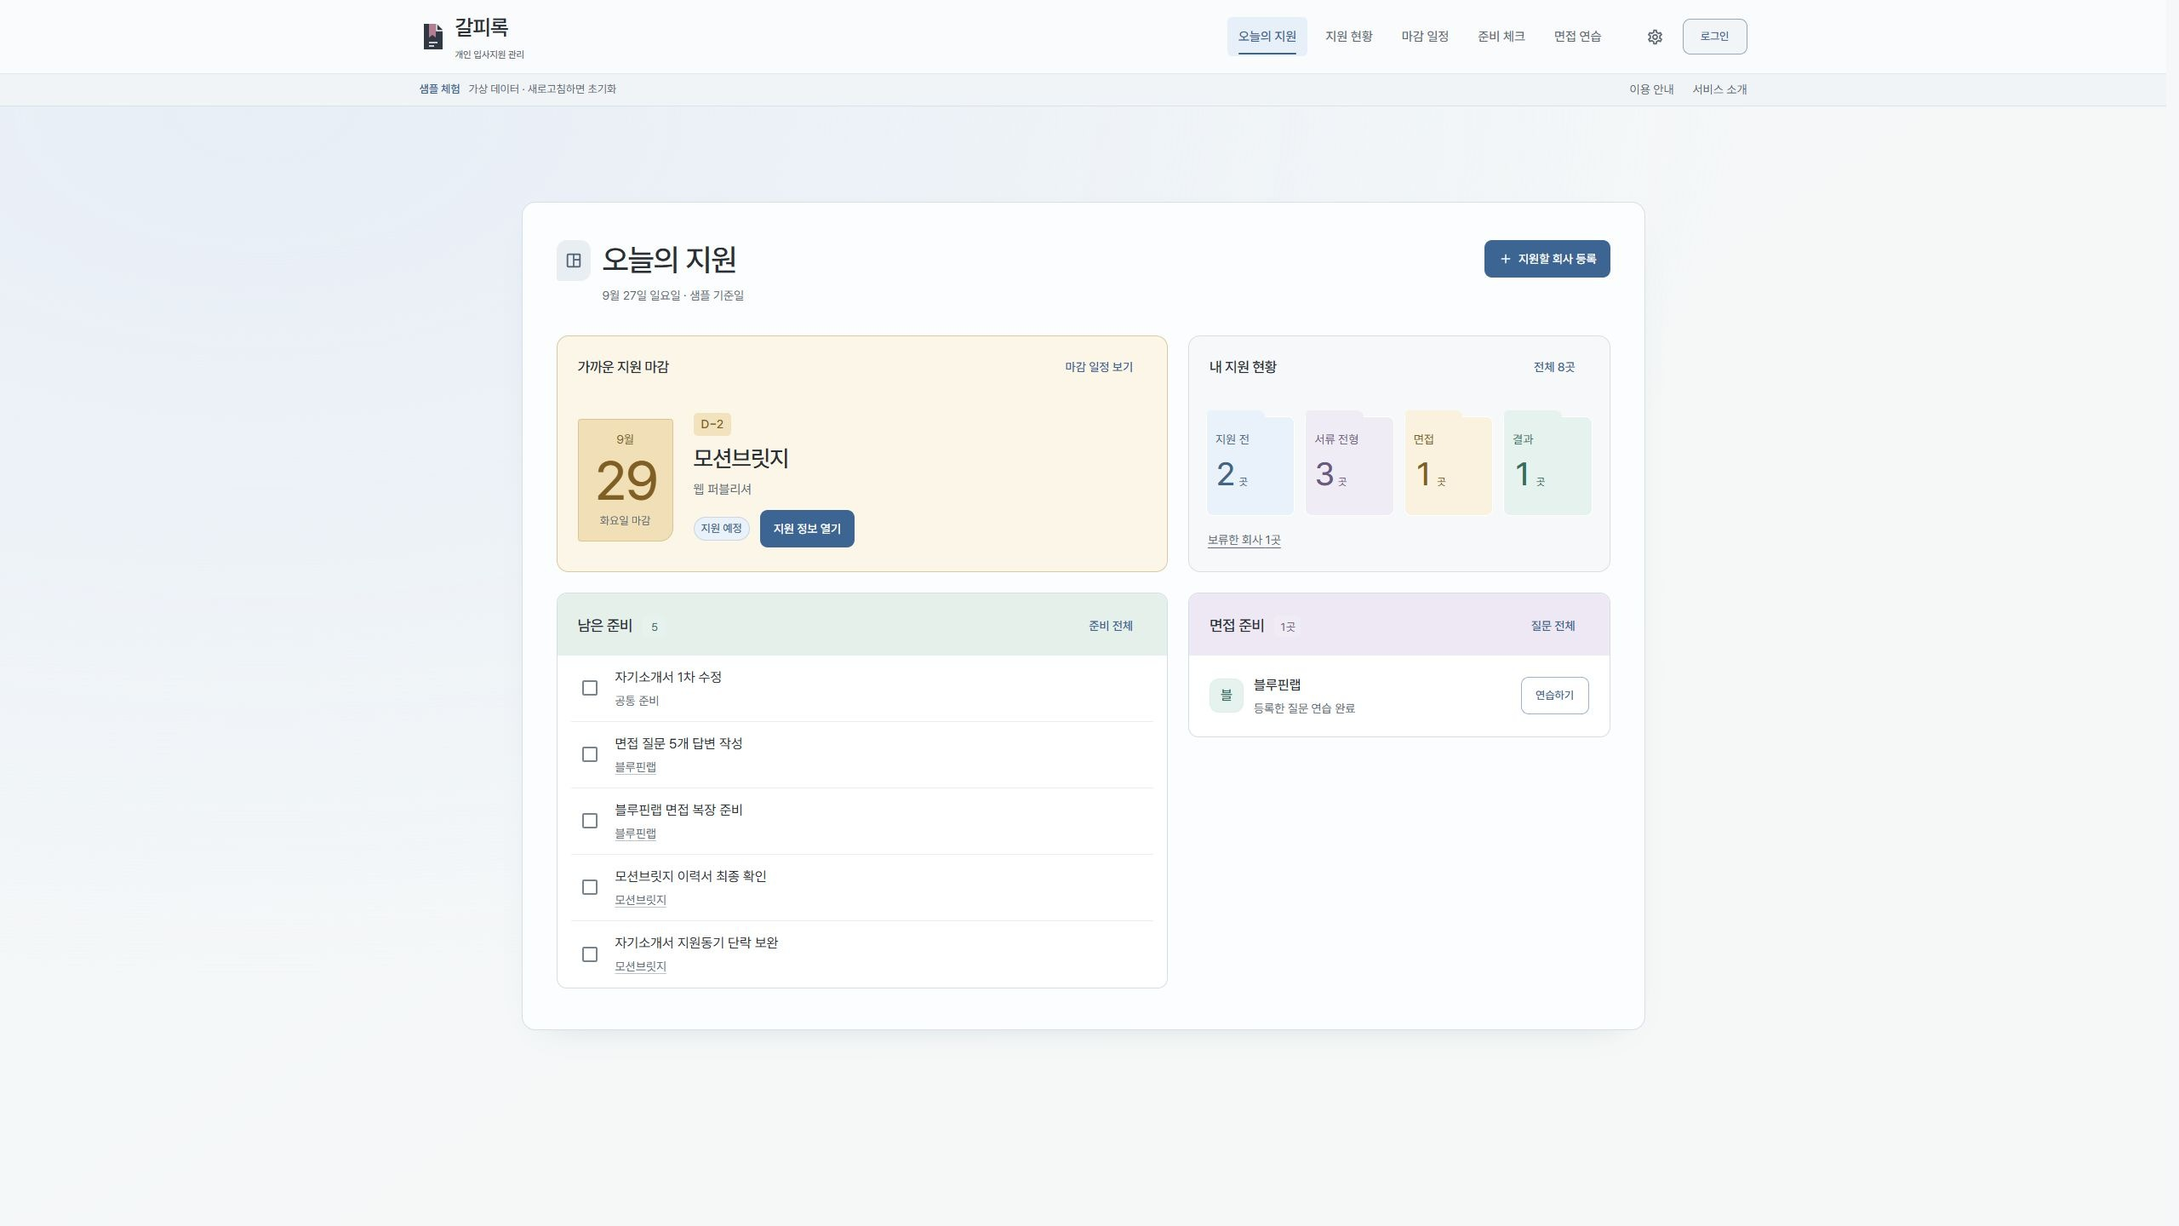
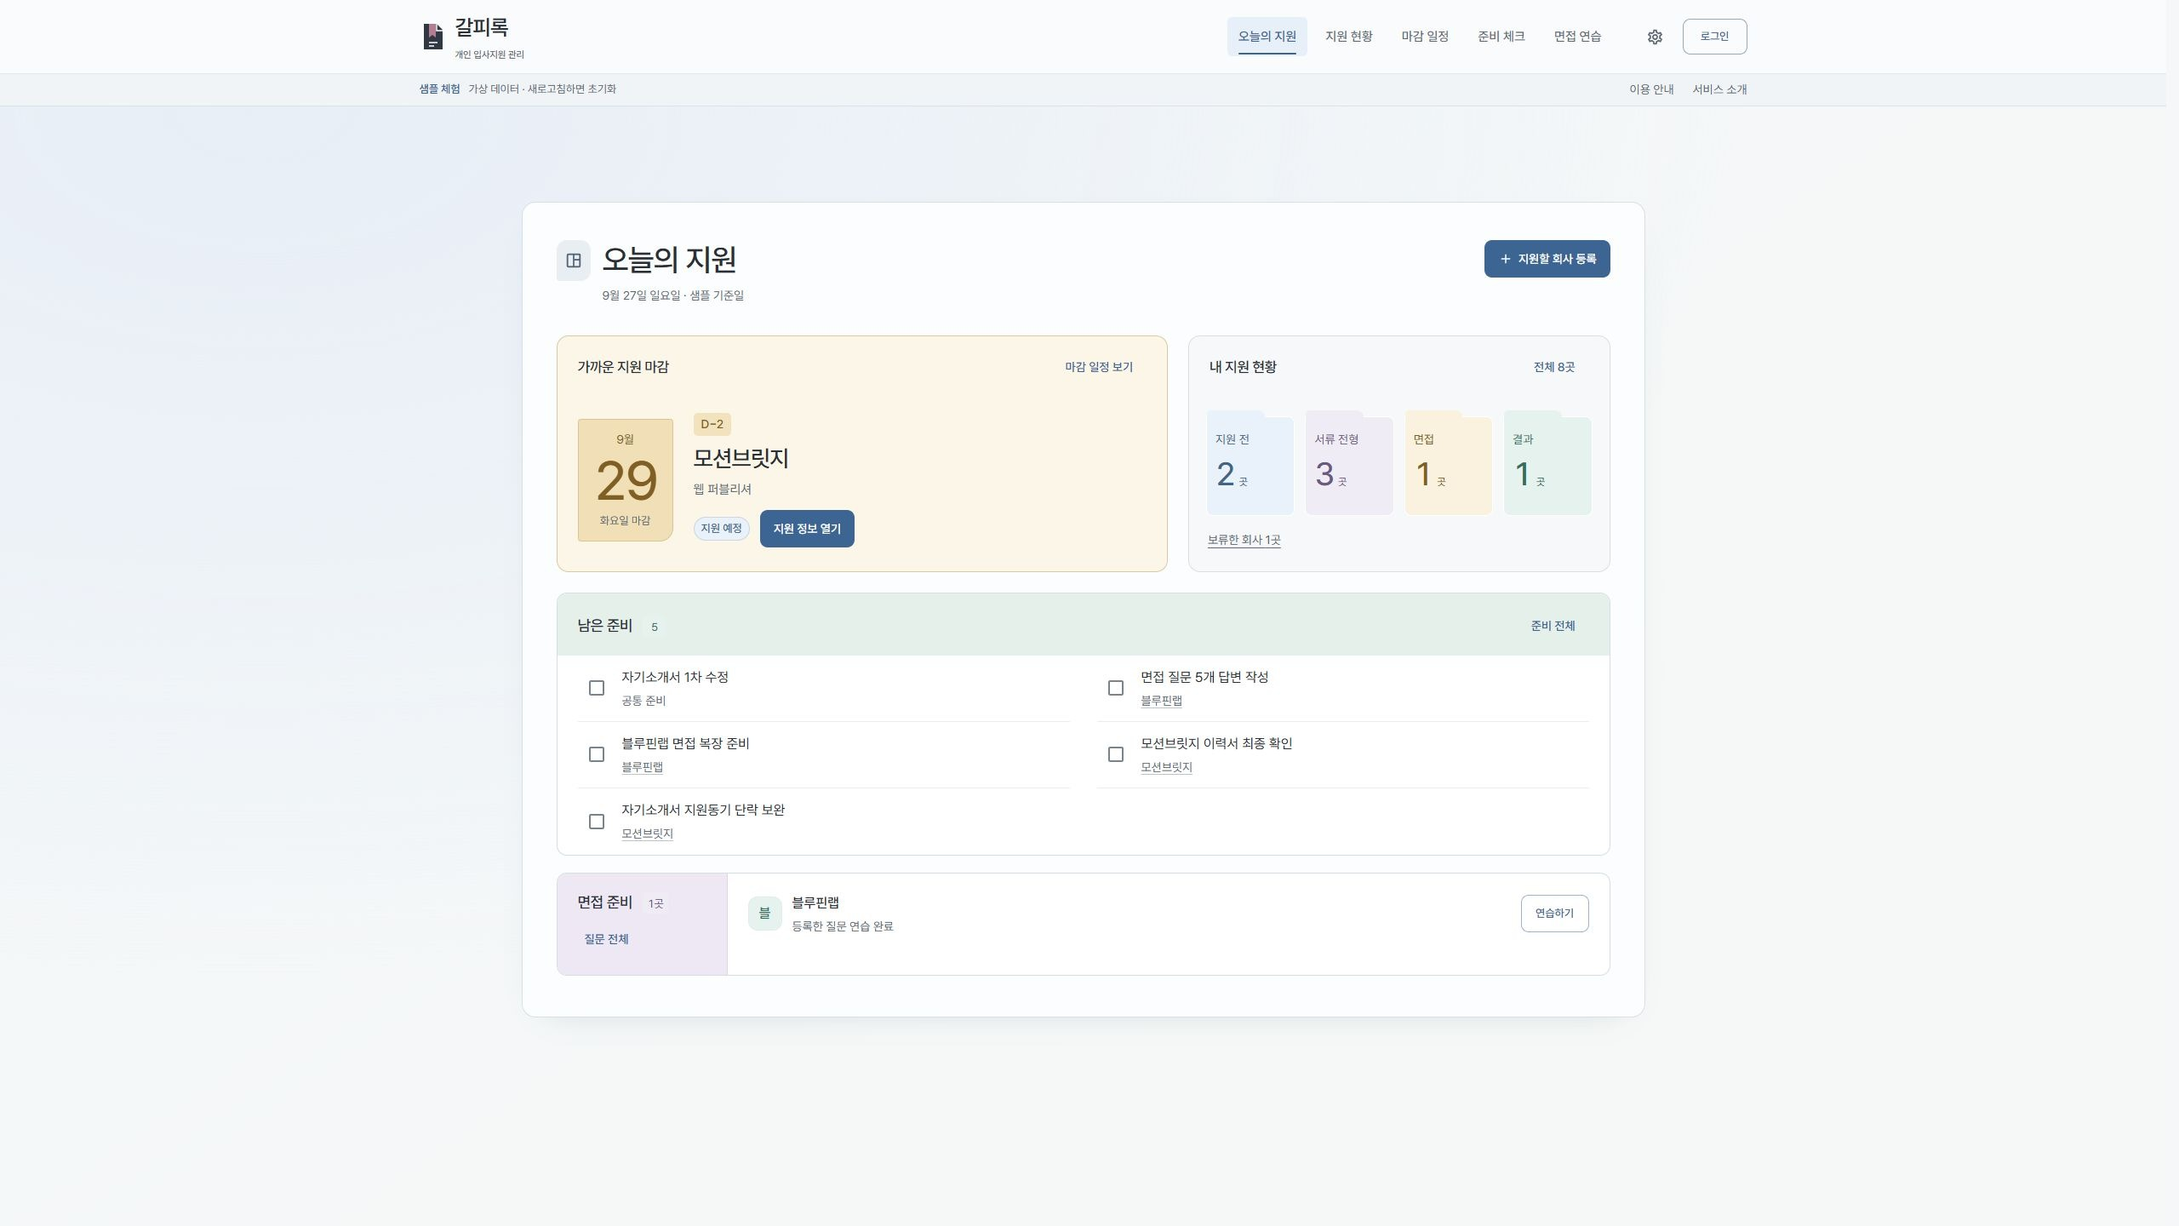
Refine Galpirok overview balance and mobile case flow

Changed region(s): [[0.25, 0.6562, 0.4062, 0.8125], [0.5312, 0.5, 0.625, 0.625], [0.2812, 0.5312, 0.3438, 0.625]]

diff --git a/projects/my-portfolio/src/pages/portfolioEditorial.css b/projects/my-portfolio/src/pages/portfolioEditorial.css
@@ -403,11 +403,12 @@
 .case-page[data-project-slug="jobflow"] .case-service-flow__stage { display: grid; overflow-anchor: none; }
 /* Every step contributes its intrinsic size to the same grid cell. Switching
    changes visibility, not the section height or a browser scroll anchor. */
-.case-page[data-project-slug="jobflow"] .case-service-flow__panel { grid-area: 1 / 1; display: grid; grid-template-columns: minmax(0, 2.6fr) minmax(0, 1fr); align-items: start; align-content: start; gap: 32px; visibility: hidden; }
+.case-page[data-project-slug="jobflow"] .case-service-flow__panel { grid-area: 1 / 1; display: grid; grid-template-columns: minmax(0, 2.6fr) minmax(0, 1fr); grid-template-areas: "screen copy"; align-items: start; align-content: start; gap: 32px; visibility: hidden; }
 .case-page[data-project-slug="jobflow"] .case-service-flow__panel[data-active="true"] { visibility: visible; }
+.case-page[data-project-slug="jobflow"] .case-service-flow__panel > .case-figure { grid-area: screen; }
 .case-page[data-project-slug="jobflow"] .case-service-flow__panel--portrait .case-figure { max-width: 390px; justify-self: center; }
 .case-page[data-project-slug="jobflow"] .case-service-flow__announcement { position: absolute; width: 1px; height: 1px; padding: 0; overflow: hidden; clip-path: inset(50%); white-space: nowrap; }
-.case-page[data-project-slug="jobflow"] .case-service-flow__copy { padding-top: 12px; }
+.case-page[data-project-slug="jobflow"] .case-service-flow__copy { grid-area: copy; padding-top: 12px; }
 .case-page[data-project-slug="jobflow"] .case-service-flow__copy h3 { max-width: 430px; margin-top: 12px; font-size: 24px; font-weight: 650; line-height: 1.4; letter-spacing: -.035em; }
 .case-page[data-project-slug="jobflow"] .case-service-flow__copy p:not(.case-eyebrow) { margin-top: 16px; color: var(--muted); font-size: 16px; line-height: 1.75; }
 .case-page[data-project-slug="jobflow"] .case-service-flow__copy .case-service-flow__result { padding-top: 16px; border-top: 1px solid var(--line); }
@@ -418,7 +419,7 @@
 .case-page[data-project-slug="jobflow"] .case-comparison-details summary:focus-visible { outline: 3px solid var(--accent); outline-offset: 5px; border-radius: 2px; }
 .case-page[data-project-slug="jobflow"] .case-comparison-details > .case-comparison { margin-top: 16px; }
 @media (min-width: 761px) and (max-width: 1100px) {
-  .case-page[data-project-slug="jobflow"] .case-service-flow__panel { grid-template-columns: 1fr; gap: 20px; }
+  .case-page[data-project-slug="jobflow"] .case-service-flow__panel { grid-template-columns: 1fr; grid-template-areas: "copy" "screen"; gap: 20px; }
   .case-page[data-project-slug="jobflow"] .case-service-flow__panel--portrait .case-figure { justify-self: center; }
   .case-page[data-project-slug="jobflow"] .case-service-flow__panel--portrait .case-service-flow__copy { max-width: none; }
   .case-page[data-project-slug="jobflow"] .case-service-flow__copy { display: grid; grid-template-columns: repeat(2, minmax(0, 1fr)); gap: 8px 32px; }
@@ -481,7 +482,7 @@
   .case-page[data-project-slug="jobflow"] .case-service-flow__copy { padding-top: 0; }
   .case-page[data-project-slug="jobflow"] .case-service-flow__copy h3 { margin-top: 8px; font-size: 24px; }
   .case-page[data-project-slug="jobflow"] .case-service-flow__copy > p:not(.case-eyebrow) { margin-top: 14px; }
-  .case-page[data-project-slug="jobflow"] .case-service-flow__panel { grid-template-columns: 1fr; gap: 20px; }
+  .case-page[data-project-slug="jobflow"] .case-service-flow__panel { grid-template-columns: 1fr; grid-template-areas: "copy" "screen"; gap: 20px; }
   .case-page[data-project-slug="jobflow"] .case-service-flow__panel .case-figure { width: 100%; max-width: 390px; justify-self: center; }
   .case-page[data-project-slug="jobflow"] .case-service-flow__panel figcaption { flex-wrap: wrap; gap: 8px 20px; }
   .case-page[data-project-slug="jobflow"] .case-service-flow__panel figcaption > span { flex-basis: 100%; }

diff --git a/projects/my-portfolio/src/data/portfolioMeta.js b/projects/my-portfolio/src/data/portfolioMeta.js
@@ -64,7 +64,7 @@ export const PROJECT_DETAIL_READY = {
     [
       {
         title: '필터를 바꿔도 같은 자리에서.',
-        summary: '김도한이 지적한 큰 화면의 여백을 정리하면서, AI 검토에서 발견한 필터 이동도 수정했습니다. 목록 길이가 달라져도 제목과 조작부는 같은 위치에 둡니다.',
+        summary: '김도한은 큰 PC 화면의 상단 쏠림과 여백을 지적했습니다. AI가 작업 폭을 정리하고 검토 중 발견한 필터 이동을 수정해, 목록 길이가 달라도 조작부 위치를 유지했습니다.',
         media: media('detail/current/galpirok-checklist-filter-empty-v2.png', '현재 준비 체크의 기타 분류 — 진행 중 0개로 바뀌어도 같은 위치에 남는 상태 탭', '2560 / 1440', { crop: { x: 630, y: 270, width: 1265, height: 610 }, mobileCrop: { x: 918, y: 383, width: 360, height: 315, label: 'PC 부분 보기 · 상태 탭과 빈 결과' }, original: 'detail/current/galpirok-checklist-filter-empty-v2.png' }),
         comparison: {
           before: media('detail/current/galpirok-checklist-filter-all-v2.png', '현재 준비 체크의 전체 분류 — 진행 중 5개와 첫 준비 항목이 있는 상태', '2560 / 1440', { crop: { x: 630, y: 270, width: 1265, height: 610 }, mobileCrop: { x: 918, y: 383, width: 360, height: 315, label: 'PC 부분 보기 · 상태 탭과 첫 준비 항목' }, original: 'detail/current/galpirok-checklist-filter-all-v2.png' }),
@@ -79,8 +79,8 @@ export const PROJECT_DETAIL_READY = {
         },
       },
       {
-        title: '갈피로 기록을 구분하기.',
-        summary: '김도한은 큰 배경 그림의 유치한 인상을 지적하고 그라데이션을 제안했습니다. AI가 화면으로 구체화했으며, 갈피는 로고·단계 탭·선택 표시에 남겼습니다.',
+        title: '기록을 가리지 않는 갈피.',
+        summary: '김도한은 설명·장식보다 회사 기록과 조작을 먼저 보여 달라고 요청하고, 큰 폴더 대신 그라데이션을 선택했습니다. AI가 배경을 구현하고 갈피는 로고·단계 탭·선택 표시에 남겼습니다.',
       },
       {
         title: '가까운 마감부터 확인하기.',
@@ -107,13 +107,13 @@ export const PROJECT_DETAIL_READY = {
       openingFacts: true,
       presentation: 'focused-decisions',
       decisionsTitle: '기록을 먼저 읽게 만든 선택.',
-      context: { summary: '김도한의 화면 피드백과 AI의 동작 검토를 반영한 세 사례입니다. 시각적 방향의 선택과 구현·검사 역할을 구분했습니다.' },
+      context: { summary: '기록·조작 우선과 큰 화면 배치에 대한 김도한의 요구, AI가 발견한 동작 문제를 반영한 세 사례입니다. 방향 선택과 구현·검사 역할을 구분했습니다.' },
       heroNote: {
         title: '한 회사의 기록에서 다음 준비까지.',
         text: '지원할 회사를 직접 등록하고 상태·마감·준비할 일을 연결합니다. 같은 회사의 기록을 다시 만들지 않고 준비부터 지원 완료까지 관리합니다.',
       },
       aiCollaboration: [
-        { label: '김도한', value: '개인 입사지원 관리 목적·우선순위 설정, 화면 문제 제기, 갈피·그라데이션 방향 선택과 공개 판단.' },
+        { label: '김도한', value: '개인 입사지원 관리 목적 설정, 기록·조작 우선 요청, 큰 화면 배치 피드백, 갈피 유지·그라데이션 선택과 공개 판단.' },
         { label: 'AI 협업', value: '구체적인 화면·스타일 제안, 코드 작성·수정, 샘플·코드 검사와 캡처.' },
       ],
       serviceFlow: {

diff --git a/projects/jobflow-dashboard/src/styles/brand-finish.css b/projects/jobflow-dashboard/src/styles/brand-finish.css
@@ -40,10 +40,14 @@
   .workspace-main .overview-page .overview-stages dd { font-size: 38px; line-height: 46px; }
   .workspace-main .overview-page .overview-preparation-panel > header { background: #E6F0EA; }
   .workspace-main .overview-page .overview-interview-panel > header { background: #EEE8F5; }
-  .workspace-main .overview-page .overview-grid { grid-template-columns: minmax(0, 1.45fr) minmax(0, 1fr); gap: 24px; margin-top: 24px; }
-  .workspace-main .overview-page .overview-tasks { display: grid; grid-template-columns: minmax(0, 1fr); }
+  .workspace-main .overview-page .overview-grid { grid-template-columns: minmax(0, 1fr); gap: 20px; margin-top: 24px; }
+  .workspace-main .overview-page .overview-tasks { display: grid; grid-template-columns: repeat(2, minmax(0, 1fr)); column-gap: 32px; padding-inline: 24px; }
   .workspace-main .overview-page .overview-tasks > .empty-state { grid-column: 1 / -1; }
+  .workspace-main .overview-page .overview-interview-panel { display: grid; grid-template-columns: 200px minmax(0, 1fr); }
+  .workspace-main .overview-page .overview-interview-panel > header { flex-direction: column; justify-content: center; align-items: flex-start; gap: 8px; padding: 20px 24px; border-bottom: 0; border-right: 1px solid #DFD7E7; }
+  .workspace-main .overview-page .overview-interview-panel > header > .MuiButton-root { margin-left: -8px; }
   .workspace-main .overview-page .overview-interviews { display: block; }
+  .workspace-main .overview-page .overview-interviews > .empty-state { min-height: 120px; }
   .workspace-main .overview-page .overview-task { min-height: 78px; }
   .workspace-main .overview-page .overview-interview { padding-block: 22px; }
   .workspace-main .job-board { gap: 20px; padding-top: 20px; }

diff --git a/projects/my-portfolio/src/pages/ProjectDetailPage.jsx b/projects/my-portfolio/src/pages/ProjectDetailPage.jsx
@@ -91,13 +91,13 @@ const ServiceWalkthrough = ({ flow }) => {
         aria-hidden={selectedIndex !== index}
         inert={selectedIndex !== index ? '' : undefined}
       >
-        <ScreenFigure media={step.media} label={step.caption} priority={selectedIndex === index} />
         <div className="case-service-flow__copy">
           <p className="case-eyebrow">{step.screen}</p>
           <h3>{step.title}</h3>
           <p>{step.action}</p>
           {step.result && <p className="case-service-flow__result">{step.result}</p>}
         </div>
+        <ScreenFigure media={step.media} label={step.caption} priority={selectedIndex === index} />
       </div>)}
     </div>
     <p className="case-service-flow__announcement" aria-live="polite" aria-atomic="true">{flow.steps[selectedIndex].screen}: {flow.steps[selectedIndex].title}</p>

diff --git a/projects/jobflow-dashboard/README.md b/projects/jobflow-dashboard/README.md
@@ -4,7 +4,17 @@
 
 [공개 서비스](https://kdhan0320-bot.github.io/dohan-portfolio/jobflow-dashboard/#/welcome) · [제작 과정과 실제 화면](https://kdhan0320-bot.github.io/dohan-portfolio/my-portfolio/#/projects/jobflow)
 
-## 이번 회차 확인 — 2026-10-16 샘플 진입·화면 안정성 정리
+## 이번 회차 확인 — 2026-10-16 준비 영역 균형·소개 읽기 순서
+
+- PC 오늘의 지원은 남은 준비를 두 열로 묶고 면접 준비를 아래 가로 영역에 배치했습니다. 2560×1440과 1024×900에서 표시·가로 넘침을 확인했고, 390×844의 한 열 배치는 유지했습니다.
+- 샘플 준비 항목 5개를 차례로 완료하고 모두 완료 안내·준비 전체 링크로의 포커스 이동을 확인했습니다. 새로고침 후 원래 샘플로 초기화됩니다.
+- 모바일에서 면접 질문·답변 입력, 닫기 확인→계속 작성→저장, 로그인→샘플 체험→면접 연습 이동 후 저장한 답변 표시를 확인했습니다. 마감 일정의 9월 29일·10월 2일 노출도 확인했습니다.
+- 기존 코드 테스트 57개 통과, 두 프로젝트 production build 성공. 갈피록 lint 오류 0·기존 AuthContext Fast Refresh 경고 1, 포트폴리오 lint 오류·경고 0.
+- 포트폴리오 사용 흐름은 1100px 이하에서 단계 버튼→행동·결과→실제 캡처 순서입니다. 360×800에서 버튼 끝 y423.65625와 설명 시작 y437.65625 사이 14px, 네 단계 전환 전후 버튼 y375.65625·scrollY1158이 같았습니다. 390×844·2560×1440에서도 네 단계 전환 위치가 유지됐고 1024×900의 읽기 배치도 확인했습니다.
+- 이번 변경은 화면 배치·기여 문구·현재 캡처·문서 정리입니다. 실제 계정 인증·DB 저장 유지·모바일 실기기·사용자 조사·채용 성과는 검증하지 않았습니다. 본인의 독립 수행 능력을 증명하는 작업으로 확대하지 않습니다.
+
+<details>
+<summary>이전 00f5120 회차 — 샘플 진입·화면 안정성 검증</summary>
 
 - 기존 자동 테스트 57개 통과. 실제 계정 인증이나 DB 통신을 실행한 결과는 아닙니다.
 - 갈피록 전체 lint 오류 0, 기존 AuthContext Fast Refresh 경고 1. 포트폴리오 lint 오류·경고 0. 두 production build 성공, 이번 빌드에 큰 번들 경고 없음.
@@ -13,6 +23,8 @@
 - 360px 마감 일정에서 9월과 10월의 가까운 마감 노출, 날짜 탐색 펼침·다음 달 날짜 선택·다가오는 마감 복귀를 확인했습니다.
 - 2560px 준비 체크 전체→기타 빈 결과 전환에서 필터 y387과 scrollY0 유지. 포트폴리오 네 단계 선택은 2560px(scrollY713, 버튼 y692.1875), 390px(1080,397.515625), 360px(1158,375.65625)에서 전환 전후 위치가 같았습니다. 모바일 비교의 빈 안내 글자와 마감 개선 전·후 선택도 확인했습니다. 측정 당시의 위치이며 모든 페이지의 CLS 점수는 아닙니다.
 - 실제 계정 인증·DB 저장 유지·실기기·사용자 조사·채용 성과는 검증하지 않았습니다. 기여 설명은 김도한의 목적·문제 제기·방향 선택과 AI의 구체적인 디자인·코드·검사로 구분합니다.
+</details>
+
 ## 처음 확인하는 분께
 
 1. 홈 또는 로그인의 **샘플 체험하기**에서 **오늘의 지원**을 엽니다.

diff --git a/projects/my-portfolio/docs/asset-license-register.md b/projects/my-portfolio/docs/asset-license-register.md
@@ -1,8 +1,16 @@
 # 자산 라이선스 등록부
 
-## 최신 기록: 2026-10-16 샘플 진입·작업 폭·소개 흐름 정리
+## 현재 갱신: 2026-10-16 오늘의 지원 하단 배치
 
-최신 로컬 브라우저 화면으로 현재 자산 6개를 갱신했습니다. PNG 두 개는 반환 원본 그대로 저장했고 JPEG 네 개는 PNG 캡처를 System.Drawing JPEG 품질 94로 형식만 변환했습니다. 그림 생성·글자 교체·합성·이미지 파일 자르기·크기 조정은 하지 않았습니다.
+`public/detail/current/galpirok-overview.jpg`를 이번 로컬 브라우저의 실제 2560×1440 화면으로 교체했습니다. 준비 목록은 두 열이며 면접 준비는 아래 가로 영역입니다. PNG 원본을 System.Drawing JPEG 품질 94로 형식만 변환했고 저장 크기도 2560×1440입니다. 합성·글자 교체·생성 이미지·파일 자르기·크기 조정은 없습니다. 나머지 자산은 재사용했습니다.
+
+포트폴리오 사용 흐름은 1100px 이하에서 설명을 캡처 앞으로 옮겼습니다. 360×800에서 버튼 끝과 설명 시작 간격 14px, 네 단계 선택 전후 버튼 y375.65625·scrollY1158 유지. 390×844·2560×1440에서도 전환 위치가 같았고 1024×900의 표시를 확인했습니다. 측정 범위는 해당 동작이며 사용자 성과나 전체 CLS를 뜻하지 않습니다.
+
+아래 00f5120 기록의 overview 이미지는 이 갱신 이전 상태를 설명합니다.
+
+## 00f5120 기록: 2026-10-16 샘플 진입·작업 폭·소개 흐름 정리
+
+00f5120 회차의 로컬 브라우저 화면으로 자산 6개를 갱신했습니다. PNG 두 개는 반환 원본 그대로 저장했고 JPEG 네 개는 PNG 캡처를 System.Drawing JPEG 품질 94로 형식만 변환했습니다. 그림 생성·글자 교체·합성·이미지 파일 자르기·크기 조정은 하지 않았습니다.
 
 | 파일 (`public/detail/current/`) | 이번 캡처 | 저장 픽셀 |
 | --- | --- | --- |
@@ -19,7 +27,7 @@
 
 사용 흐름의 네 이미지는 같은 그리드 영역에서 최대 높이를 예약합니다. 2560×1440, 390×844, 360×800에서 기록→마감→준비→지원 완료 선택 시 스크롤과 버튼의 y 위치가 각각 동일했습니다. 이는 해당 동작의 위치 측정이며 전체 CLS나 사용자 성과 수치가 아닙니다. 현재 필터 비교는 개선 전후가 아니라 현재 두 상태입니다. 실제 사용자 데이터·독립 수행·채용 성과를 주장하지 않습니다.
 
-이하의 같은 날짜 기록도 이전 회차의 내용입니다. 현재 파일·표시 좌표는 이 최신 기록을 우선합니다.
+이 절의 캡처·변환·검사는 00f5120 회차의 기록입니다. 이하의 같은 날짜 기록은 그보다 이전 회차이며, 각 기록의 좌표·검사 결과를 이후 변경의 검증으로 확대하지 않습니다.
 
 ## 이전 이력: 2026-10-16 기존 필터 원본의 부분 보기
 
